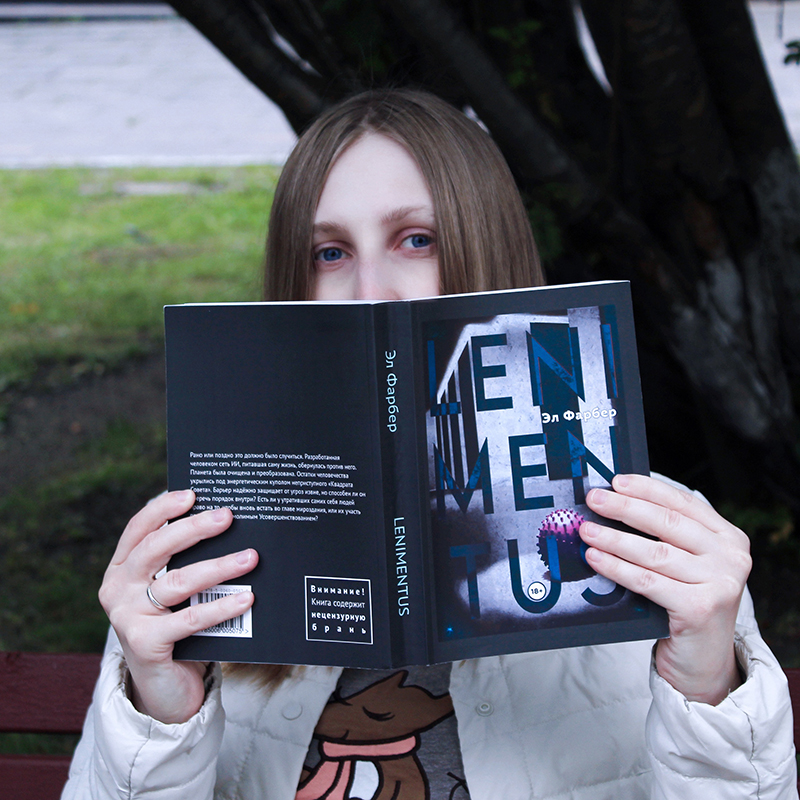
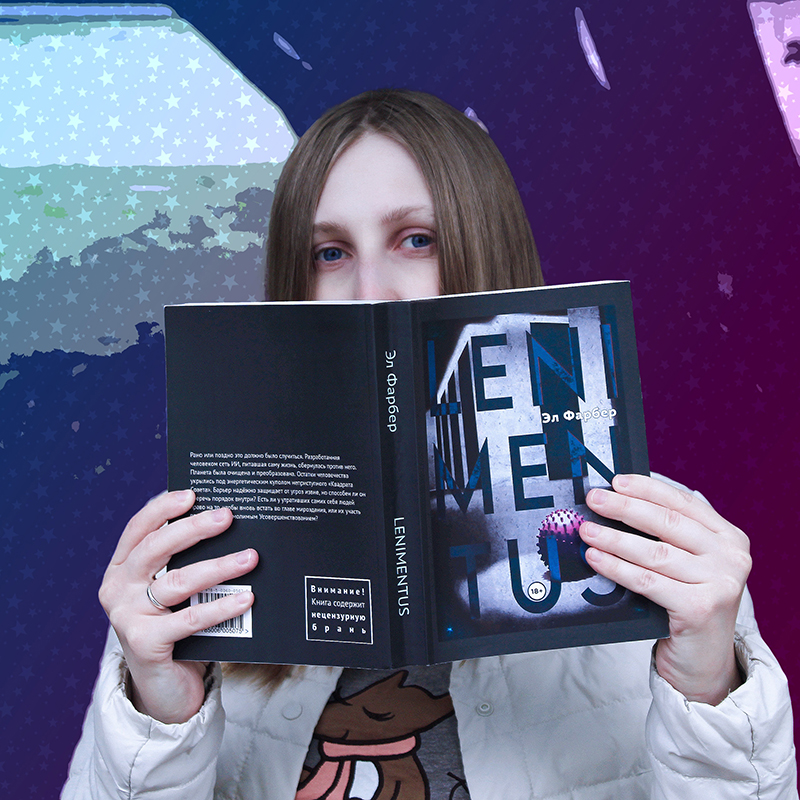
Image replaced & readme fixed

diff --git a/README.md b/README.md
@@ -1,3 +1,5 @@
 # Lenimentus
 
 Landing for a sci-fi book.
+
+![readme.png](readme.png)
